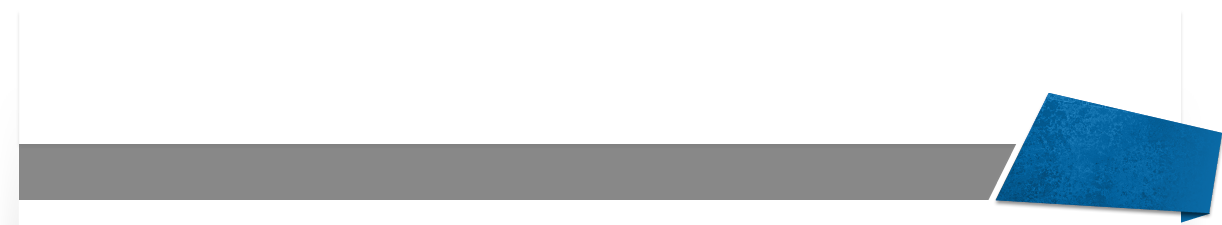
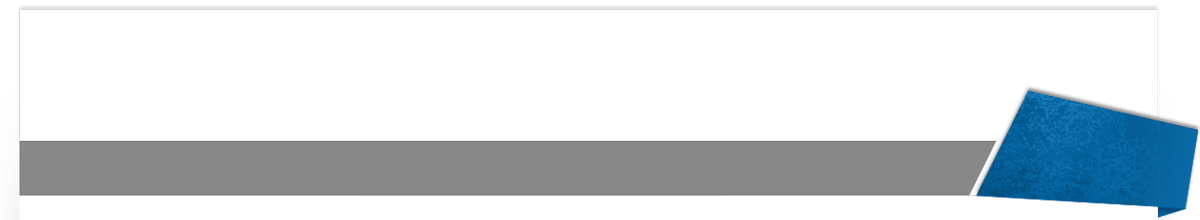
Adding images and theme css changes
Major change to Search button

Changed region(s): [[0.8017, 0.3818, 1.0, 0.9818], [0.0, 0.0273, 0.9867, 0.0545]]

diff --git a/Theme 2/Theme 2.css b/Theme 2/Theme 2.css
@@ -26,10 +26,10 @@
     GLOBAL TYPOGRAPHY
 ======================================== */
 h1, *.SurveyTitle, *.ReportTitle, *.NCC_Forms_Title, *.SearchFormTitle, *.EventCalendarName, *.BBMembershipFormTitle, *.BBDocumentFormTitle, *.DiscussionGroupFormTitle, *.JobBoardFormTitle, *.ReportTitle, *.heading {
-	color: #496c62;
-	font-family: Arial, helvetica, sans-serif;
-	font-weight: bold;
-	font-size:24px;
+	color: #bc1c19;
+	font-family: 'Libre Baskerville', serif;
+	font-weight: 400;
+	font-size:35px;
 	text-transform: none;
 	letter-spacing: normal;
 	margin: 0 0 6px;
@@ -38,10 +38,10 @@ h1, *.SurveyTitle, *.ReportTitle, *.NCC_Forms_Title, *.SearchFormTitle, *.EventC
 	padding: 0 0 6px;
 }
 h2, *.LoginSectionHeader, *.LoginFormTitle, *.DonationListingHeading, *.DonationCaptureListingHeading, *.CalendarFormLegend, *.ListViewDateLabel, *.CalendarViewTopMiddle, *.EventSectionHeader, *.DetailCaption, *.NewsReaderFormTitle, *.ProfileFormTitle, *.UpcomingEventTitle, *.RecentEventTitle, *.SubscriptionFormTitle, *.BBAnonymousSubscriptionTitle, *.BBMembershipFormTitle, *.DirectoryFormTitle, *.BBVolOpJobListTitle, *.BBVolOpJobDetailTitle, *.NewsChannelFormTitle, *.PostChannelStoryFormTitle, *.SpellFormTitle, *.BBPollsFormTitle, *.BBNotesTitle, *.ECardWizardHeading, *.ReportsLandingTable caption, *.DiscussionGroupHeadingText, *.SearchJobHeading, *.JobResultsHeading, .myHomeBox th.right {
-	color: #496c62;
-	font-family: Arial, helvetica, sans-serif;
-	font-weight:bold;
-	font-size:16px;
+	color: #bc1c19;
+	font-family: 'Libre Baskerville', serif;
+	font-weight: 600;
+	font-size:21px;
 	margin: 0 0 6px;
 	text-transform: none;
 }
@@ -456,8 +456,8 @@ body {
 }
 #header { /* header gradient */
 	margin: 0 auto;
-	height: 269px;
-	background: url(//53725.bbnc.bbcust.com/image/header-background.png) bottom no-repeat;
+	height: 267px;
+	background: url(//53725.schoolforms.org/image/header-background.png) bottom no-repeat;
 	position: relative;
 }
 #header .bodyGutter {
@@ -484,7 +484,8 @@ span.logoWords {
 	width: auto;
 	position: relative;
 	text-align: right;
-	top: 24px;
+	top: 40px;
+	right: 35px;
 	clear: both;
 }
 #utility p {
@@ -526,10 +527,10 @@ span.logoWords {
 	min-height: 800px;
 	margin: -25px auto 0;
 	overflow: auto;
-	background: url(//53725.bbnc.bbcust.com/image/Fullscreen_10_24_14_1_28_PM.png) no-repeat;
+	background: url(//53725.schoolforms.org/image/Fullscreen_10_24_14_1_28_PM.png) no-repeat;
 }
 #wrapContentInner .bodyGutter {
-	padding: 25px 10px 50px;
+	padding: 15px 10px 50px 25px;
 }
 *.contentGutter {
 	padding: 0 36px;
@@ -563,7 +564,7 @@ span.logoWords {
 	line-height: 1.4em;
 }
 #contentPrimary .gutter {
-	padding: 12px 23px 0 0;
+	padding: 12px 35px 0 0;
 }
 /* =Secondary Content Area
 ============================== */
@@ -572,20 +573,23 @@ span.logoWords {
 	width:225px;
 	margin: 0;
 	min-height: 400px;
-	padding: 0 !important;
+	padding: 0;
 }
 #contentSecondary .gutter {
-	padding: 25px 0 0 0;
+	padding: 0;
 	clear: both;
 }
 #contentSecondary h2 {
 	padding: 5px 0 12px 12px;
 }
+.sidebarPhoto {
+	margin-bottom: 65px;
+}
 /* =Footer
 =============================== */
 #wrapTop {
 	width: 100%;
-	background: url(//53725.bbnc.bbcust.com/image/footer-background.jpg) top no-repeat;
+	background: url(//53725.schoolforms.org/image/footer-background.jpg) top no-repeat;
 	clear: both;
 	height: 81px;
 }
@@ -732,6 +736,9 @@ span.logoWords {
 	display: inline;
 	width: auto;
 }
+*.utilityMenuList li.menuItem1.first:before {
+	content: url(//53725.schoolforms.org/image/leaf.png);
+}
 *.utilityMenuList li a {
 	color: #fff;
 	font-size: 12px;
@@ -750,9 +757,39 @@ span.logoWords {
 .utilityMenu,
 .quickSearch {
 	float: right;
-	margin-top: 6px;
 	position: relative;
 	z-index: 1;
+}
+.utilityMenu {
+	margin-top: 1px;
+}
+/*QuickSearch */
+.QuickSearchFormTable {
+	border: 1px solid #cdcdcd;
+}
+.quickSearch {
+	margin: 1px 35px 0 25px;
+}
+.QuickSearchTextbox {
+	border: none;
+	background: transparent;
+	margin-right: 5px;
+	color: #fff;
+	padding: 0 0 0 5px;
+	font-family: 'Open Sans', sans-serif;
+	font-weight: 600;
+	text-transform: uppercase;
+	font-size: 12px;
+}
+.QuickSearchButton {
+	background: url(//53725.schoolforms.org/image/search.png) no-repeat 0 0;
+	border: none;
+	width: 20px;
+	height: 20px;
+	display: block;
+	padding: 0;
+	text-indent: -9999px;
+	cursor: pointer;
 }
 #headerUtility .menu {
 	margin: 0 auto;
@@ -785,6 +822,7 @@ span.logoWords {
 ============================== */
 #wrapNav {
 	width: 100%;
+	padding-left: 10px;
 }
 #wrapNav .gutter {
 	line-height: 0;
@@ -811,7 +849,7 @@ span.logoWords {
 #wrapNav .menu li.last {
 	border: 0 none;
 	float: right;
-	margin: -20px 15px 0 0;
+	margin: -20px 22px 0 0;
 }
 .menuVisit {
 	font-weight: 600;
@@ -937,6 +975,7 @@ span.logoWords {
 	text-decoration: none !important;
 	color: #454545;
 	font-weight: normal !important;
+	font-size: 12px;
 }
 .breadcrumbs .menu.mainMenu li.parent.selected a:after {
 	content: '/';
@@ -945,13 +984,67 @@ span.logoWords {
 .breadcrumbs .menu.mainMenu li.parent.selected ul li.last a:after {
 	content: '';
 }
+/*Secondary Menu */
+#contentSecondary .menu.mainMenu {
+	list-style: none;
+	padding: 0;
+	margin: 0 0 30px;
+}
+#contentSecondary .menu.mainMenu li {
+	display: none;
+}
+#contentSecondary .menu.mainMenu li.selected,
+#contentSecondary .menu.mainMenu li.selected li {
+	display: block;
+}
+#contentSecondary .menu.mainMenu li.parent.selected a {
+	padding: 5px 0;
+	text-decoration: none;
+	font-weight: normal;
+	font-size: 18px;
+	color: #bc1c19;
+	font-family: 'Libre Baskerville', serif;
+}
+#contentSecondary .menu.mainMenu li.parent > a {
+	border-bottom: 1px dotted #cdcdcd;
+}
+#contentSecondary .menu.mainMenu li.selected li a {
+	padding: 0 15px 0 !important;
+	color: #454545 !important;
+	font-size: 13px !important;
+}
+#contentSecondary .menu.mainMenu li.selected li a:hover {
+	background: #e7e7e7;
+}
+/*Sidebar Buttons */
+.sidebarButton {
+	clear: both;
+	display: block;
+	margin: 5px 0;
+	padding: 5px 20px;
+	width: 225px;
+	background: red;
+	color: #fff;
+	text-transform: capitalize;
+	border-radius: 5px;
+		-webkit-border-radius: 5px;
+			-moz-border-radius: 5px;
+	background: #e45050; /* Old browsers */
+	background: -moz-linear-gradient(top, #e45050 0%, #d52020 42%, #ae1a1a 64%, #ad1b1b 100%); /* FF3.6+ */
+	background: -webkit-gradient(linear, left top, left bottom, color-stop(0%,#e45050), color-stop(42%,#d52020), color-stop(64%,#ae1a1a), color-stop(100%,#ad1b1b)); /* Chrome,Safari4+ */
+	background: -webkit-linear-gradient(top, #e45050 0%,#d52020 42%,#ae1a1a 64%,#ad1b1b 100%); /* Chrome10+,Safari5.1+ */
+	background: -o-linear-gradient(top, #e45050 0%,#d52020 42%,#ae1a1a 64%,#ad1b1b 100%); /* Opera 11.10+ */
+	background: -ms-linear-gradient(top, #e45050 0%,#d52020 42%,#ae1a1a 64%,#ad1b1b 100%); /* IE10+ */
+	background: linear-gradient(to bottom, #e45050 0%,#d52020 42%,#ae1a1a 64%,#ad1b1b 100%); /* W3C */
+	filter: progid:DXImageTransform.Microsoft.gradient( startColorstr='#e45050', endColorstr='#ad1b1b',GradientType=0 ); /* IE6-9 */
+}
 /* =Internal Menu
 ============================== */
  /* ul styles */
  
  /*top ul */
  #contentSecondary .menu {
-	width: 320px;
+	width: 265px;
 	float: left;
 	margin: 0;
 	padding-left: 0;
@@ -973,7 +1066,8 @@ span.logoWords {
 }
 /* second li */
  #contentSecondary .menu li.selected ul li {
-	border-bottom: 0 none;
+	border-bottom: 1px dotted #cdcdcd;
+	padding: 5px 0;
 }
 #contentSecondary .menu li.selected li.first:hover {
 	border-top: 0 none;
@@ -1037,4 +1131,14 @@ span.logoWords {
 	text-decoration: underline;
 	font-size: 11px;
 	font-weight: normal;
+}
+
+/*Custom Styles */
+.floatLeft {
+	float: left;
+	padding: 0 15px 10px 0;
+}
+.floatRight {
+	float: right;
+	padding: 0 0 10px 5px;
 }
